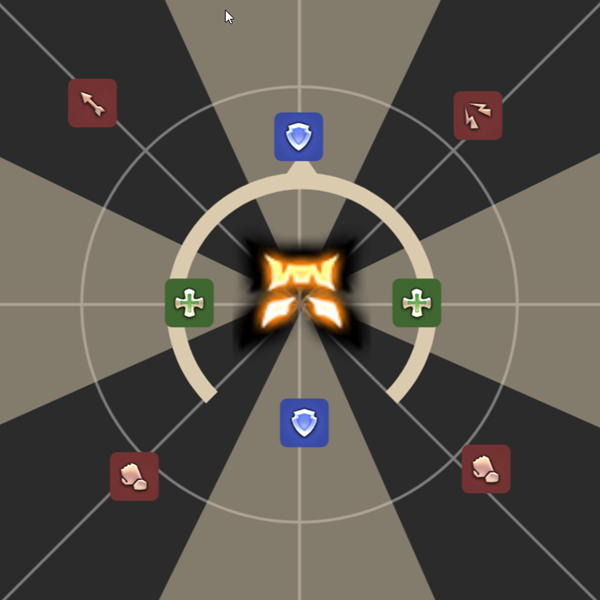
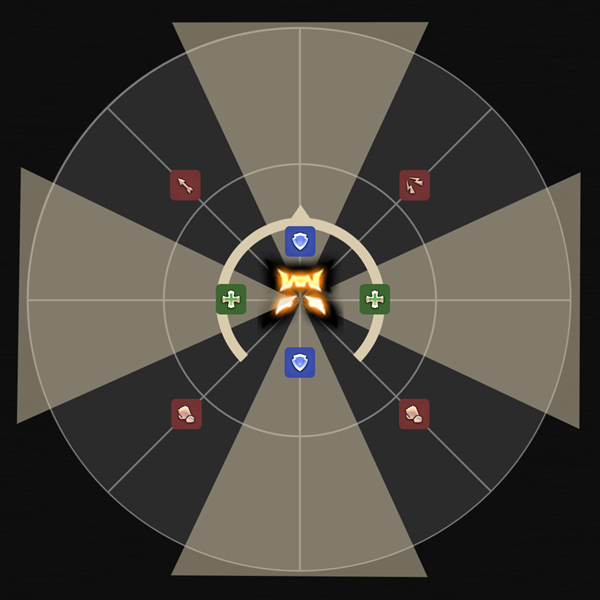
update some raidplan stuff, add spotlights

diff --git a/wtfdig/src/routes/72/ex4/+page.ts b/wtfdig/src/routes/72/ex4/+page.ts
@@ -130,6 +130,7 @@ const raidplanStrat: Strat = {
                                 dpsin: 'Always start out\nDodge either once or twice',
                             },
                             imageUrl: './ex4/raidplan/ef1.png',
+                            mask: 'radial-gradient(circle at 50% 41%, black 9%, rgba(0, 0, 0, 0.4) 9%)',
                         },
                         {
                             role: 'Tank',
@@ -140,6 +141,7 @@ const raidplanStrat: Strat = {
                                 dpsin: 'Always start out\nDodge either once or twice'
                             },
                             imageUrl: './ex4/raidplan/ef1.png',
+                            mask: 'radial-gradient(circle at 50% 60%, black 9%, rgba(0, 0, 0, 0.4) 9%)',
                         },
                         {
                             role: 'Healer',
@@ -150,6 +152,7 @@ const raidplanStrat: Strat = {
                                 dpsin: 'Always start out\nDodge either once or twice'
                             },
                             imageUrl: './ex4/raidplan/ef1.png',
+                            mask: 'radial-gradient(circle at 39% 50%, black 9%, rgba(0, 0, 0, 0.4) 9%)',
                         },
                         {
                             role: 'Healer',
@@ -160,6 +163,7 @@ const raidplanStrat: Strat = {
                                 dpsin: 'Always start out\nDodge either once or twice'
                             },
                             imageUrl: './ex4/raidplan/ef1.png',
+                            mask: 'radial-gradient(circle at 61% 50%, black 9%, rgba(0, 0, 0, 0.4) 9%)',
                         },
                         {
                             role: 'Melee',
@@ -170,6 +174,7 @@ const raidplanStrat: Strat = {
                                 dpsin: 'Always start in\nDodge either once or twice'
                             },
                             imageUrl: './ex4/raidplan/ef1.png',
+                            mask: 'radial-gradient(circle at 31% 69%, black 8%, rgba(0, 0, 0, 0.4) 8%)',
                         },
                         {
                             role: 'Melee',
@@ -180,6 +185,7 @@ const raidplanStrat: Strat = {
                                 dpsin: 'Always start in\nDodge either once or twice'
                             },
                             imageUrl: './ex4/raidplan/ef1.png',
+                            mask: 'radial-gradient(circle at 69% 69%, black 8%, rgba(0, 0, 0, 0.4) 8%)',
                         },
                         {
                             role: 'Ranged',
@@ -190,6 +196,7 @@ const raidplanStrat: Strat = {
                                 dpsin: 'Always start in\nDodge either once or twice'
                             }, 
                             imageUrl: './ex4/raidplan/ef1.png',
+                            mask: 'radial-gradient(circle at 31% 31%, black 8%, rgba(0, 0, 0, 0.4) 8%)',
                         },
                         {
                             role: 'Ranged',
@@ -200,6 +207,7 @@ const raidplanStrat: Strat = {
                                 dpsin: 'Always start in\nDodge either once or twice'
                             },
                             imageUrl: './ex4/raidplan/ef1.png',
+                            mask: 'radial-gradient(circle at 69% 31%, black 8%, rgba(0, 0, 0, 0.4) 8%)',
                         },
                     ]
                 }
@@ -234,7 +242,8 @@ const raidplanStrat: Strat = {
                                 relative: 'Inner slice North',
                                 color: 'Inner slice near North'
                             },
-                            imageUrl: './ex4/raidplan/bloom3-support-roses.png'
+                            imageUrl: './ex4/raidplan/bloom3-support-roses.png',
+                            mask: 'radial-gradient(circle at 57% 35%, black 9%, rgba(0, 0, 0, 0.4) 9%)'
                         },
                         {
                             role: 'Tank',
@@ -243,7 +252,8 @@ const raidplanStrat: Strat = {
                                 relative: 'Inner slice South',
                                 color: 'Inner slice near South'
                             },
-                            imageUrl: './ex4/raidplan/bloom3-support-roses.png'
+                            imageUrl: './ex4/raidplan/bloom3-support-roses.png',
+                            mask: 'radial-gradient(circle at 44% 65%, black 9%, rgba(0, 0, 0, 0.4) 9%)'
                         },
                         {
                             role: 'Healer',
@@ -252,7 +262,8 @@ const raidplanStrat: Strat = {
                                 relative: 'Inner slice Southwest',
                                 color: 'Inner slice near West'
                             },
-                            imageUrl: './ex4/raidplan/bloom3-support-roses.png'
+                            imageUrl: './ex4/raidplan/bloom3-support-roses.png',
+                            mask: 'radial-gradient(circle at 34% 56%, black 9%, rgba(0, 0, 0, 0.4) 9%)'
                         },
                         {
                             role: 'Healer',
@@ -261,43 +272,48 @@ const raidplanStrat: Strat = {
                                 relative: 'Inner slice Southeast',
                                 color: 'Inner slice near East'
                             },
-                            imageUrl: './ex4/raidplan/bloom3-support-roses.png'
+                            imageUrl: './ex4/raidplan/bloom3-support-roses.png',
+                            mask: 'radial-gradient(circle at 57% 66%, black 9%, rgba(0, 0, 0, 0.4) 9%)'
                         },
                         {
                             role: 'Melee',
-                            party: 1,
-                            description: {
-                                relative: 'Inner slice South',
-                                color: 'Inner slice near Southwest'
-                            },
-                            imageUrl: './ex4/raidplan/bloom3-dps-roses.png'
-                        },
-                        {
-                            role: 'Melee',
-                            party: 2,
-                            description: {
-                                relative: 'Inner slice Southeast',
-                                color: 'Inner slice near Southeast'
-                            },
-                            imageUrl: './ex4/raidplan/bloom3-dps-roses.png'
-                        },
-                        {
-                            role: 'Ranged',
                             party: 1,
                             description: {
                                 relative: 'Inner slice Southwest',
+                                color: 'Inner slice near Southwest'
+                            },
+                            imageUrl: './ex4/raidplan/bloom3-dps-roses.png',
+                            mask: 'radial-gradient(circle at 34% 57%, black 9%, rgba(0, 0, 0, 0.4) 9%)'
+                        },
+                        {
+                            role: 'Melee',
+                            party: 2,
+                            description: {
+                                relative: 'Inner slice South',
+                                color: 'Inner slice near Southeast'
+                            },
+                            imageUrl: './ex4/raidplan/bloom3-dps-roses.png',
+                            mask: 'radial-gradient(circle at 44% 66%, black 9%, rgba(0, 0, 0, 0.4) 9%)'
+                        },
+                        {
+                            role: 'Ranged',
+                            party: 1,
+                            description: {
+                                relative: 'Inner slice North',
                                 color: 'Inner slice near Northwest'
                             },
-                            imageUrl: './ex4/raidplan/bloom3-dps-roses.png'
+                            imageUrl: './ex4/raidplan/bloom3-dps-roses.png',
+                            mask: 'radial-gradient(circle at 57% 34%, black 9%, rgba(0, 0, 0, 0.4) 9%)'
                         },
                         {
                             role: 'Ranged',
                             party: 2,
                             description: {
-                                relative: 'Inner slice North',
+                                relative: 'Inner slice Southeast',
                                 color: 'Inner slice near Northeast'
                             },
-                            imageUrl: './ex4/raidplan/bloom3-dps-roses.png'
+                            imageUrl: './ex4/raidplan/bloom3-dps-roses.png',
+                            mask: 'radial-gradient(circle at 57% 67%, black 9%, rgba(0, 0, 0, 0.4) 9%)'
                         },
                     ]
                 },
@@ -313,7 +329,8 @@ const raidplanStrat: Strat = {
                                 relative: 'Outer slice North',
                                 color: 'Outer slice touching North'
                             },
-                            imageUrl: './ex4/raidplan/bloom3-dps-roses.png'
+                            imageUrl: './ex4/raidplan/bloom3-dps-roses.png',
+                            mask: 'radial-gradient(circle at 64% 15%, black 9%, rgba(0, 0, 0, 0.4) 9%)'
                         },
                         {
                             role: 'Tank',
@@ -322,7 +339,8 @@ const raidplanStrat: Strat = {
                                 relative: 'Outer slice South',
                                 color: 'Outer slice touching South'
                             },
-                            imageUrl: './ex4/raidplan/bloom3-dps-roses.png'
+                            imageUrl: './ex4/raidplan/bloom3-dps-roses.png',
+                            mask: 'radial-gradient(circle at 36% 84%, black 9%, rgba(0, 0, 0, 0.4) 9%)'
                         },
                         {
                             role: 'Healer',
@@ -331,7 +349,8 @@ const raidplanStrat: Strat = {
                                 relative: 'Outer slice West',
                                 color: 'Outer slice touching West'
                             },
-                            imageUrl: './ex4/raidplan/bloom3-dps-roses.png'
+                            imageUrl: './ex4/raidplan/bloom3-dps-roses.png',
+                            mask: 'radial-gradient(circle at 16% 36%, black 9%, rgba(0, 0, 0, 0.4) 9%)'
                         },
                         {
                             role: 'Healer',
@@ -340,7 +359,8 @@ const raidplanStrat: Strat = {
                                 relative: 'Outer slice East',
                                 color: 'Outer slice touching East'
                             },
-                            imageUrl: './ex4/raidplan/bloom3-dps-roses.png'
+                            imageUrl: './ex4/raidplan/bloom3-dps-roses.png',
+                            mask: 'radial-gradient(circle at 84% 64%, black 9%, rgba(0, 0, 0, 0.4) 9%)'
                         },
                         {
                             role: 'Melee',
@@ -349,7 +369,8 @@ const raidplanStrat: Strat = {
                                 relative: 'Outer slice West',
                                 color: 'Outer slice touching West'
                             },
-                            imageUrl: './ex4/raidplan/bloom3-support-roses.png'
+                            imageUrl: './ex4/raidplan/bloom3-support-roses.png',
+                            mask: 'radial-gradient(circle at 16% 36%, black 9%, rgba(0, 0, 0, 0.4) 9%)'
                         },
                         {
                             role: 'Melee',
@@ -358,7 +379,8 @@ const raidplanStrat: Strat = {
                                 relative: 'Outer slice South',
                                 color: 'Outer slice touching South'
                             },
-                            imageUrl: './ex4/raidplan/bloom3-support-roses.png'
+                            imageUrl: './ex4/raidplan/bloom3-support-roses.png',
+                            mask: 'radial-gradient(circle at 36% 84%, black 9%, rgba(0, 0, 0, 0.4) 9%)'
                         },
                         {
                             role: 'Ranged',
@@ -367,7 +389,8 @@ const raidplanStrat: Strat = {
                                 relative: 'Outer slice North',
                                 color: 'Outer slice touching North'
                             },
-                            imageUrl: './ex4/raidplan/bloom3-support-roses.png'
+                            imageUrl: './ex4/raidplan/bloom3-support-roses.png',
+                            mask: 'radial-gradient(circle at 64% 15%, black 9%, rgba(0, 0, 0, 0.4) 9%)'
                         },
                         {
                             role: 'Ranged',
@@ -376,7 +399,8 @@ const raidplanStrat: Strat = {
                                 relative: 'Outer slice East',
                                 color: 'Outer slice touching East'
                             },
-                            imageUrl: './ex4/raidplan/bloom3-support-roses.png'
+                            imageUrl: './ex4/raidplan/bloom3-support-roses.png',
+                            mask: 'radial-gradient(circle at 84% 64%, black 9%, rgba(0, 0, 0, 0.4) 9%)'
                         },
                     ]
                 }

diff --git a/wtfdig/src/routes/72/ex4/+page.svelte b/wtfdig/src/routes/72/ex4/+page.svelte
@@ -436,9 +436,9 @@
 						{/if}
 					</div>
 					<div class="grow"></div>
-					<div class="grid gap-x-8 content-center">
+					<div class="grid gap-y-2 content-center">
 						<button on:click={() => copyLinkToClipboard()} class="button btn preset-tonal-secondary border border-secondary-500">Copy link</button>
-						<!--Switch name="spotlight-toggle" checked={spotlight} onCheckedChange={(e) => (spotlight = e.checked)}>Highlight my spots</Switch-->
+						<Switch name="spotlight-toggle" checked={spotlight} onCheckedChange={(e) => (spotlight = e.checked)}>Highlight my spots</Switch>
 					</div>
 				</div>
 				<div class="flex flex-wrap items-center justify-between my-4">
